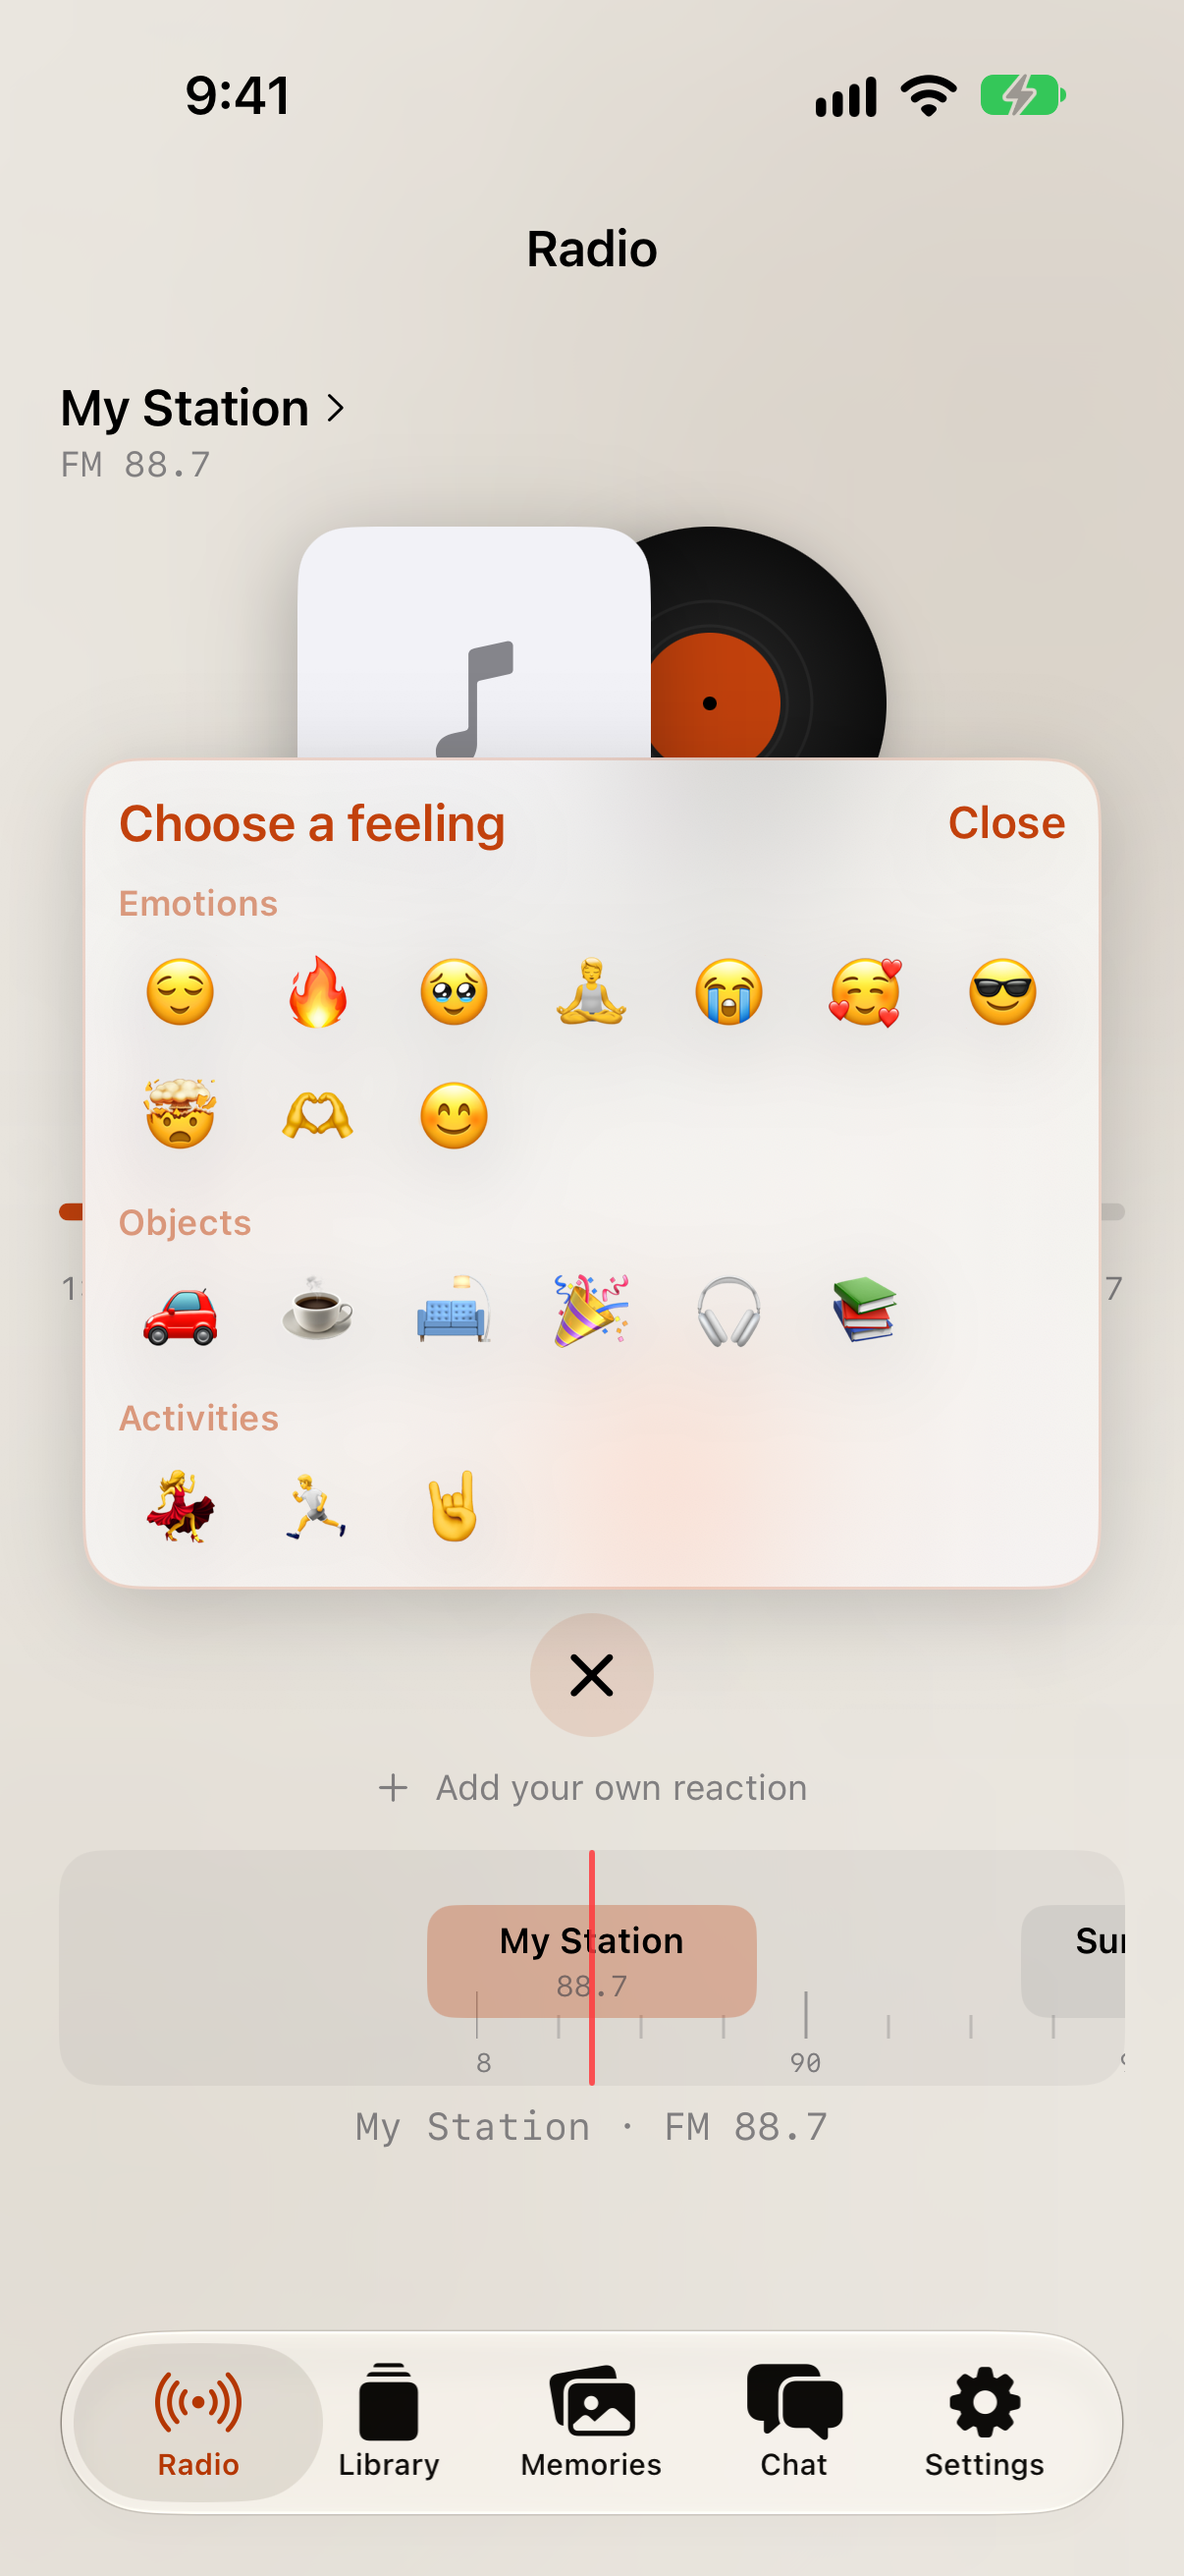
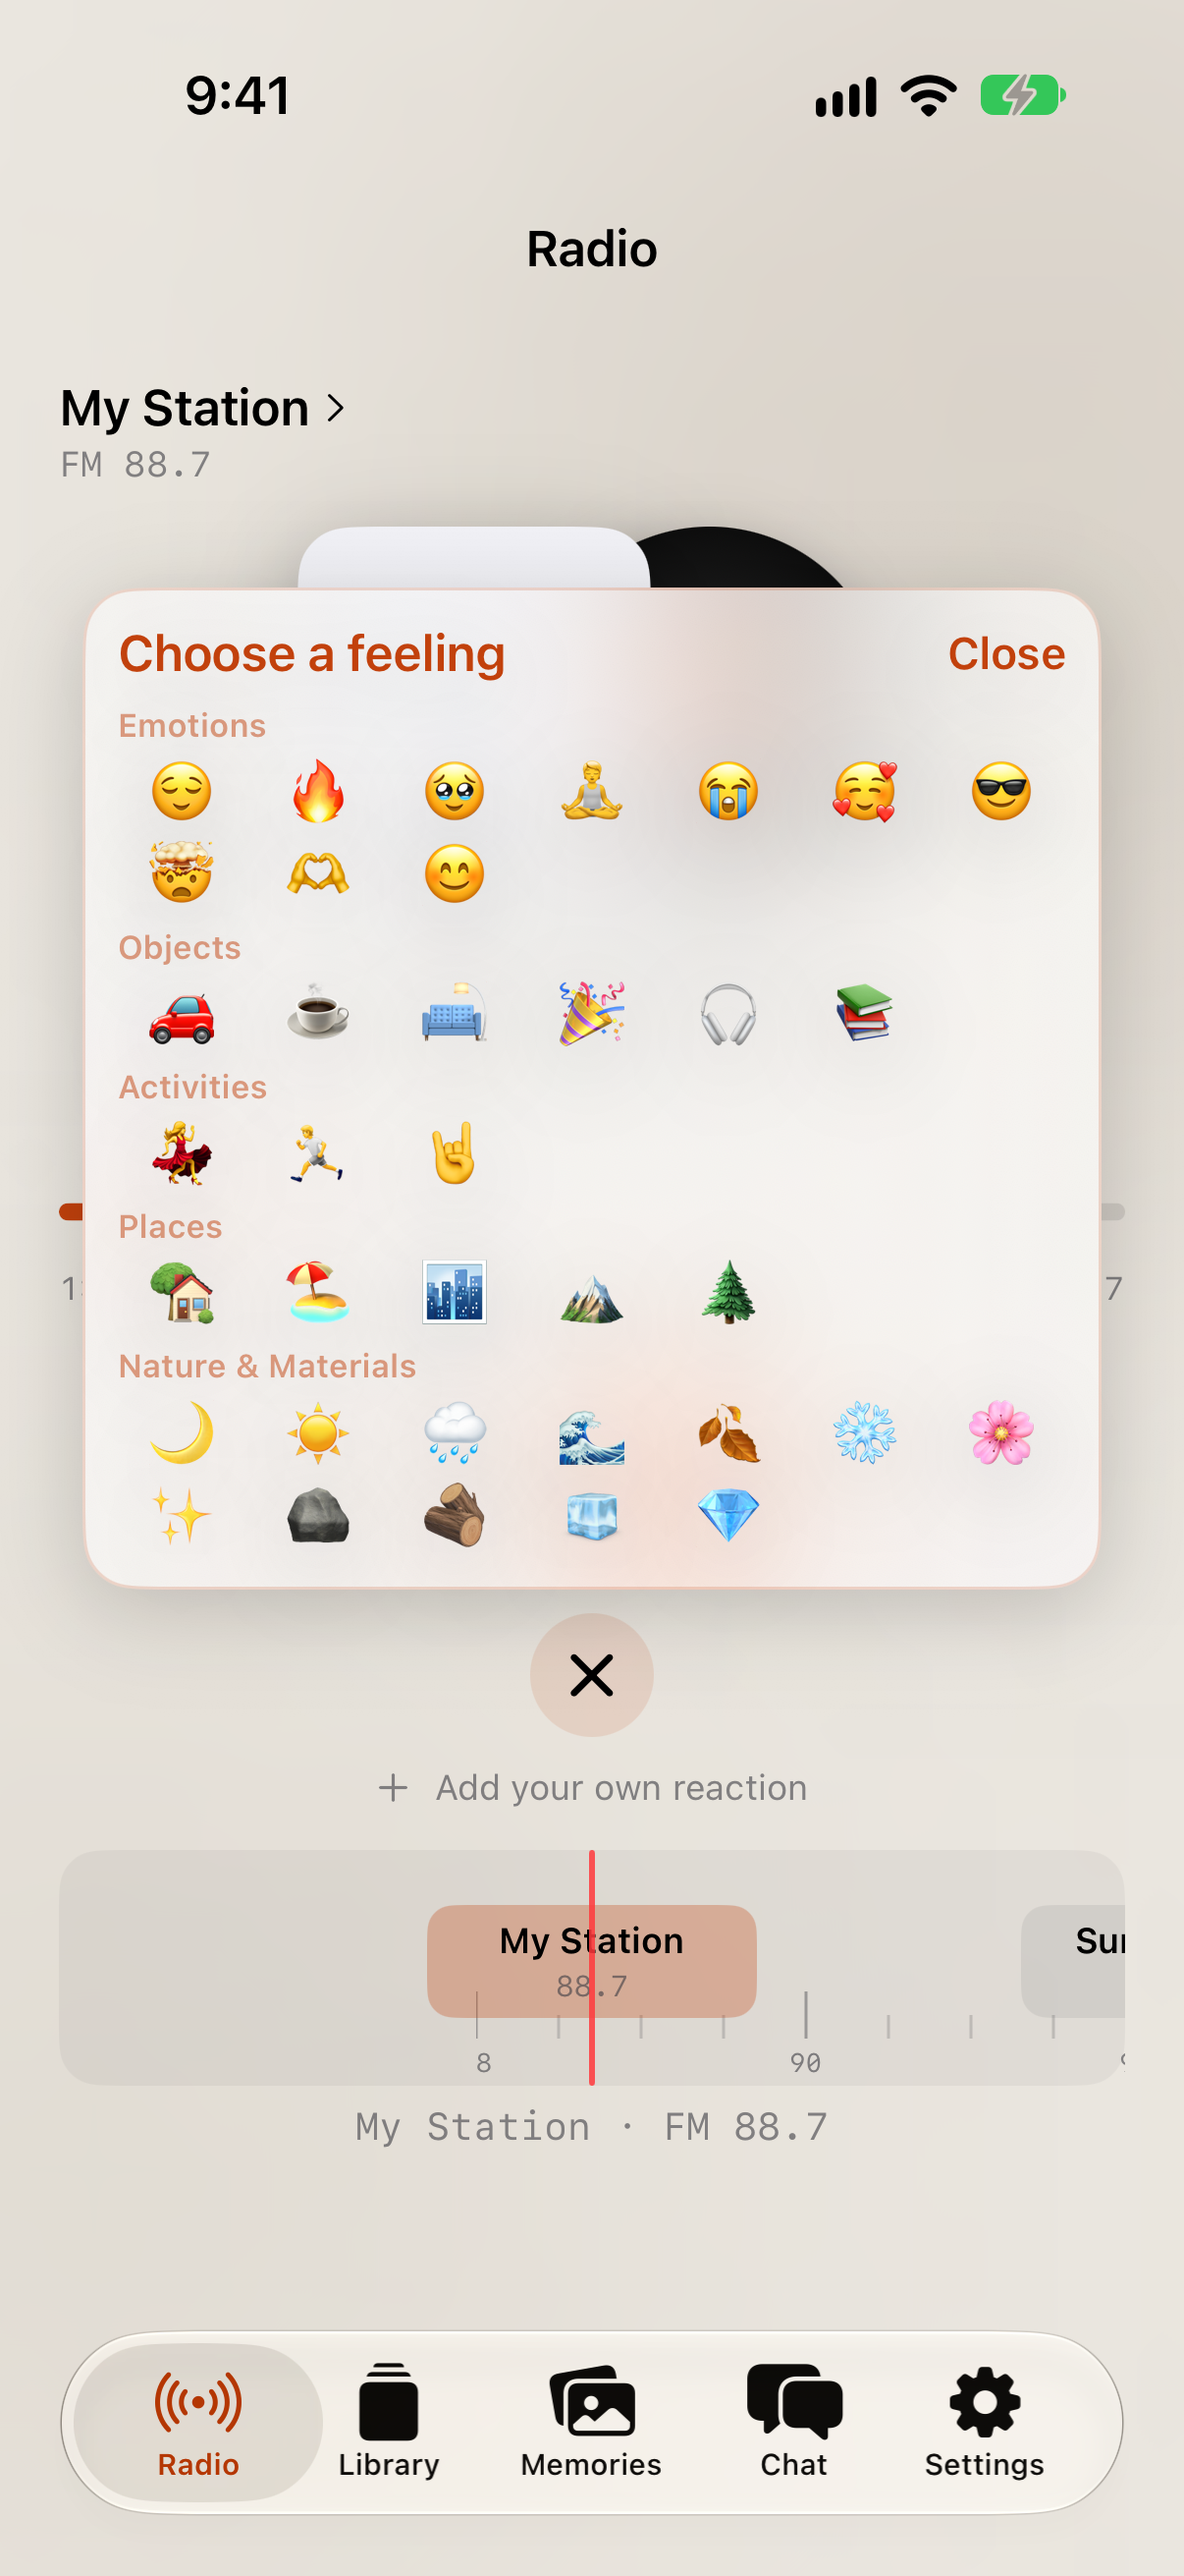
Make every emoji reachable by hold and slide

diff --git a/mobile/ios/jukeapp/JukeApp/Views/Radio/RadioScreen.swift b/mobile/ios/jukeapp/JukeApp/Views/Radio/RadioScreen.swift
@@ -293,6 +293,7 @@ private struct CompactReactionEmojiChooser: View {
     @State private var lastTouchLocation: CGPoint?
     @State private var holdTask: Task<Void, Never>?
     @State private var chooserFrames: [String: CGRect] = [:]
+    @State private var chooserCatalogueFrame: CGRect = .zero
 
     var body: some View {
         let radio = model.radio
@@ -341,7 +342,10 @@ private struct CompactReactionEmojiChooser: View {
                 }
             }
             .animation(.snappy(duration: 0.2), value: isChooserOpen)
-            .onPreferenceChange(EmojiChooserFramePreferenceKey.self) { chooserFrames = $0 }
+            .onPreferenceChange(EmojiChooserFramePreferenceKey.self) { frames in
+                chooserFrames = frames
+                chooserCatalogueFrame = frames["catalogue:bounds"] ?? .zero
+            }
 
             let wordReactions = radio.currentReactions.filter { !RadioController.isEmoji($0) }
             if !wordReactions.isEmpty {
@@ -401,47 +405,51 @@ private struct CompactReactionEmojiChooser: View {
                     .accessibilityIdentifier("radio.closeEmojiChooser")
             }
 
-            ScrollView {
-                LazyVStack(alignment: .leading, spacing: 10) {
-                    ForEach(radio.chooserEmojiCategories) { category in
-                        VStack(alignment: .leading, spacing: 4) {
-                            Text(category.title)
-                                .font(.caption.weight(.semibold))
-                                .foregroundStyle(.secondary)
-                            LazyVGrid(columns: Array(repeating: GridItem(.flexible(), spacing: 4), count: 7), spacing: 4) {
-                                ForEach(category.emojis, id: \.self) { emoji in
-                                    let selected = radio.currentReactions.contains(emoji)
-                                    Button {
-                                        Task { await radio.chooseReaction(emoji) }
-                                        isChooserOpen = false
-                                    } label: {
-                                        Text(emoji)
-                                            .font(.system(size: 25))
-                                            .frame(maxWidth: .infinity)
-                                            .frame(height: 38)
-                                            .background(selected ? model.atmosphere.primary.opacity(0.2) : .clear, in: Capsule())
-                                            .contentShape(Capsule())
-                                    }
-                                    .buttonStyle(.plain)
-                                    .accessibilityLabel("React with \(emoji)")
-                                    .accessibilityValue(selected ? "Selected" : "Not selected")
-                                    .accessibilityIdentifier("radio.chooser.emoji.\(emoji)")
-                                    .background {
-                                        GeometryReader { proxy in
-                                            Color.clear.preference(
-                                                key: EmojiChooserFramePreferenceKey.self,
-                                                value: ["palette:\(emoji)": proxy.frame(in: .global)]
-                                            )
-                                        }
+            VStack(alignment: .leading, spacing: 5) {
+                ForEach(radio.chooserEmojiCategories) { category in
+                    VStack(alignment: .leading, spacing: 2) {
+                        Text(category.title)
+                            .font(.caption2.weight(.semibold))
+                            .foregroundStyle(.secondary)
+                        LazyVGrid(columns: Array(repeating: GridItem(.flexible(), spacing: 3), count: 7), spacing: 1) {
+                            ForEach(category.emojis, id: \.self) { emoji in
+                                let selected = radio.currentReactions.contains(emoji)
+                                Button {
+                                    Task { await radio.chooseReaction(emoji) }
+                                    isChooserOpen = false
+                                } label: {
+                                    Text(emoji)
+                                        .font(.system(size: 20))
+                                        .frame(maxWidth: .infinity)
+                                        .frame(height: 27)
+                                        .background(selected ? model.atmosphere.primary.opacity(0.2) : .clear, in: Capsule())
+                                        .contentShape(Capsule())
+                                }
+                                .buttonStyle(.plain)
+                                .accessibilityLabel("React with \(emoji)")
+                                .accessibilityValue(selected ? "Selected" : "Not selected")
+                                .accessibilityIdentifier("radio.chooser.emoji.\(emoji)")
+                                .background {
+                                    GeometryReader { proxy in
+                                        Color.clear.preference(
+                                            key: EmojiChooserFramePreferenceKey.self,
+                                            value: ["palette:\(emoji)": proxy.frame(in: .global)]
+                                        )
                                     }
                                 }
                             }
                         }
                     }
                 }
-                .padding(.vertical, 2)
             }
-            .frame(height: 230)
+            .background {
+                GeometryReader { proxy in
+                    Color.clear.preference(
+                        key: EmojiChooserFramePreferenceKey.self,
+                        value: ["catalogue:bounds": proxy.frame(in: .global)]
+                    )
+                }
+            }
             .accessibilityIdentifier("radio.emojiCatalogue")
         }
         .padding(12)
@@ -505,7 +513,12 @@ private struct CompactReactionEmojiChooser: View {
     }
 
     private func emoji(at point: CGPoint) -> String? {
-        chooserFrames.first(where: { entry in entry.key.hasPrefix("palette:") && entry.value.contains(point) })
+        guard chooserCatalogueFrame.contains(point) else { return nil }
+        return chooserFrames.first(where: { entry in
+            guard entry.key.hasPrefix("palette:") else { return false }
+            let visibleCell = entry.value.intersection(chooserCatalogueFrame)
+            return !visibleCell.isNull && visibleCell.contains(point)
+        })
             .map { String($0.key.dropFirst("palette:".count)) }
     }
 }

diff --git a/mobile/ios/jukeapp/JukeAppUITests/ReactionEmojiChooserUITests.swift b/mobile/ios/jukeapp/JukeAppUITests/ReactionEmojiChooserUITests.swift
@@ -29,6 +29,30 @@ final class ReactionEmojiChooserUITests: XCTestCase {
     }
 
     @MainActor
+    func testHoldAndSlideCanSelectEmojiFromLastCatalogueGroup() {
+        let app = launchRadio()
+        let chooser = app.buttons["radio.openEmojiChooser"]
+        XCTAssertTrue(chooser.waitForExistence(timeout: 10))
+
+        chooser.press(forDuration: 0.7)
+
+        let lastGroup = app.staticTexts["Nature & Materials"]
+        let target = app.buttons["radio.chooser.emoji.💎"]
+        XCTAssertTrue(lastGroup.waitForExistence(timeout: 5))
+        XCTAssertTrue(target.waitForExistence(timeout: 5))
+        XCTAssertTrue(target.isHittable, "the last catalogue group must be visible to the hold-slide gesture")
+        attachScreenshot(of: app, named: "Compact-emoji-chooser-last-group-visible")
+
+        chooser.press(forDuration: 0.8, thenDragTo: target)
+
+        let selectedRecent = app.buttons["radio.recentEmoji.💎"]
+        XCTAssertTrue(selectedRecent.waitForExistence(timeout: 5))
+        XCTAssertEqual(selectedRecent.value as? String, "Selected")
+        let recentButtons = app.buttons.matching(NSPredicate(format: "identifier BEGINSWITH %@", "radio.recentEmoji."))
+        XCTAssertEqual(recentButtons.element(boundBy: 0).identifier, "radio.recentEmoji.💎")
+    }
+
+    @MainActor
     func testHoldingChooserOpensPaletteForTapOrVoiceOverChoice() {
         let app = launchRadio()
         let chooser = app.buttons["radio.openEmojiChooser"]

diff --git a/docs/design/juke-app/ios-polish-r3/t-evidence/README.md b/docs/design/juke-app/ios-polish-r3/t-evidence/README.md
@@ -1,19 +1,20 @@
 # PR T: Compact emoji chooser
 
-At rest, the iOS reaction row shows up to four recently chosen or currently selected emojis and one chooser button. Tapping the button opens the catalogue; holding it opens the same catalogue for sliding preview and release to choose. Recent emoji buttons and palette buttons remain accessible to VoiceOver, and word reactions stay visible as removable chips.
+At rest, the iOS reaction row shows up to four recently chosen or currently selected emojis and one chooser button. Tapping the button opens the catalogue; holding it opens the same catalogue for sliding preview and release to choose. The compact grid shows every catalogue group at once so a hold-slide reaches the final emoji without scrolling. Recent emoji buttons and palette buttons remain accessible to VoiceOver, and word reactions stay visible as removable chips.
 
 Catalogue decision: retain the existing core reactions and group the iOS catalogue in this order: **Emotions → Objects → Activities → Places → Nature & Materials**. User-created emoji are appended under **Your emojis**. The existing flat Mac picker and reaction strip are unchanged.
 
 | Round 3 reference | iPhone 18 Pro, iOS 27.0 simulator |
 | --- | --- |
 | ![Round 3 reference](../../ios-polish-r2/b-round3-reference.png) | ![Compact chooser at rest](t-chooser-at-rest-iphone-18-pro-ios-27.png) |
-| ![Round 3 reference](../../ios-polish-r2/b-round3-reference.png) | ![Compact chooser open](t-chooser-open-iphone-18-pro-ios-27.png) |
+| ![Round 3 reference](../../ios-polish-r2/b-round3-reference.png) | ![Compact chooser open with every group](t-chooser-open-iphone-18-pro-ios-27.png) |
+| ![Round 3 reference](../../ios-polish-r2/b-round3-reference.png) | ![Hold-slide target in the final group](t-chooser-last-group-iphone-18-pro-ios-27.png) |
 
 Word-reaction visibility capture: ![Word reaction remains visible](t-word-reaction-iphone-18-pro-ios-27.png)
 
 ## Verification
 
 - `PATH=/usr/sbin:$PATH scripts/build_and_run_ios.sh -p jukeapp -s 6A9957BE-0ED2-41D6-A5B5-FEC3022A7BF7` succeeded.
-- iPhone 18 Pro / iOS 27.0 simulator UI tests passed: 3 tests, 0 failures. They cover the compact resting row, tap to open, hold/drag/release to choose and promote to the leftmost recent slot, recent emoji removal, hold-open then tap/VoiceOver choice, and word-reaction visibility/removal.
+- iPhone 18 Pro / iOS 27.0 simulator UI tests passed: 4 tests, 0 failures. In addition to the existing chooser and word-reaction coverage, `testHoldAndSlideCanSelectEmojiFromLastCatalogueGroup` verifies that 💎 in Nature & Materials is hittable without scrolling and that a hold-slide selects it and promotes it to the leftmost recent slot.
 - Reaction chooser unit tests passed: 5 tests, including catalogue grouping, recent row ordering, custom emoji placement, and leftmost recency.
-- **Not verified on device:** no physical iPhone or live Spotify session was used. Verified in the iPhone 18 Pro iOS 27.0 simulator: app build/launch, chooser tap and hold/drag selection, recent emoji removal, and word reaction presentation/removal.
+- **Not verified on device:** no physical iPhone or live Spotify session was used. Verified in the iPhone 18 Pro iOS 27.0 simulator: app build/launch, chooser tap and hold/drag selection through the final catalogue group, recent emoji removal, and word reaction presentation/removal.
